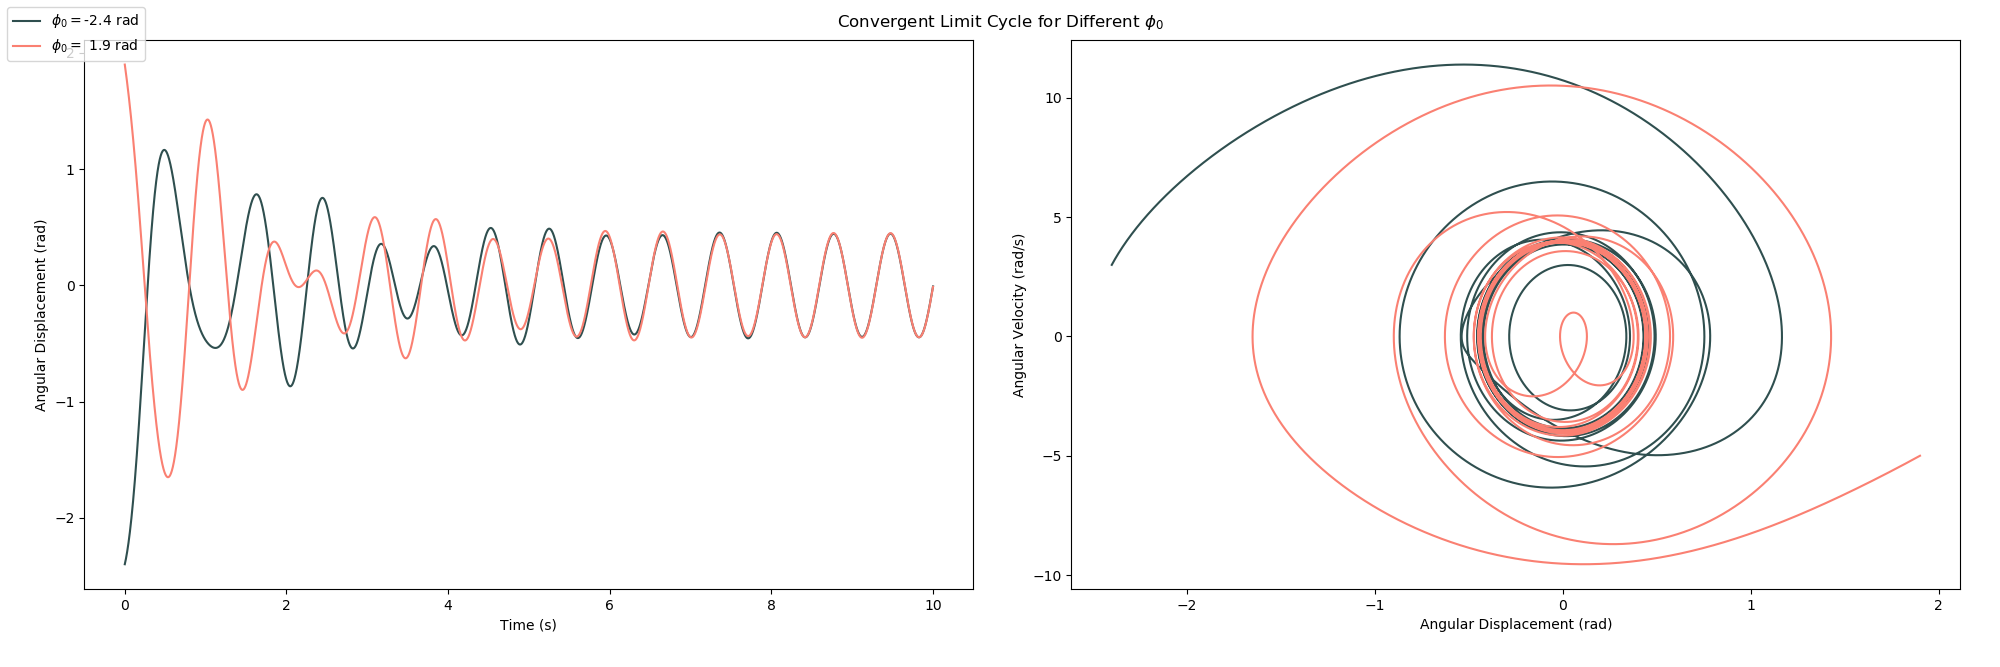
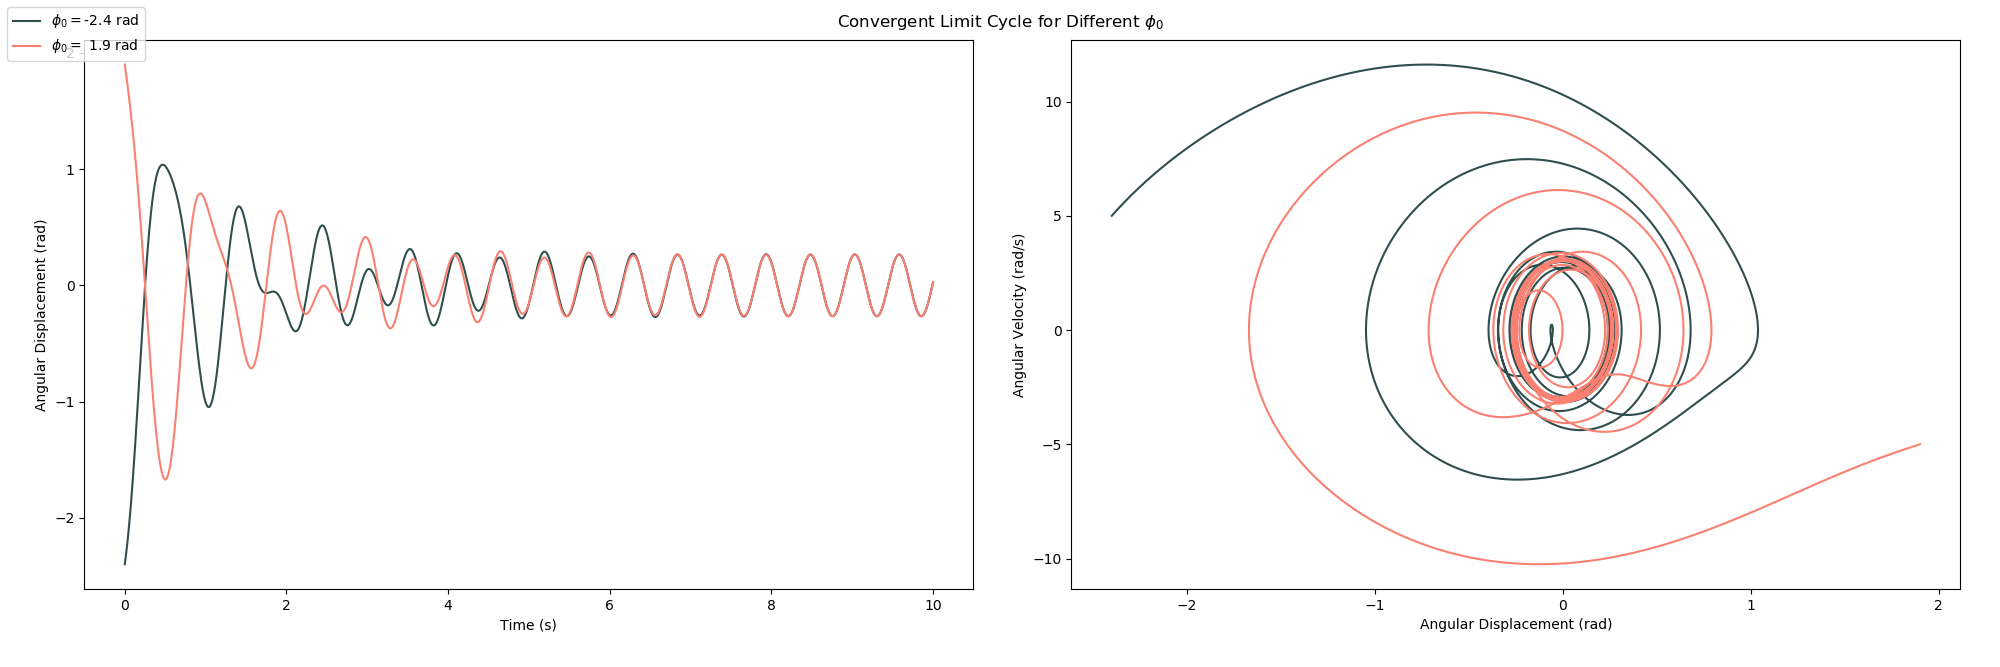
butterflies

diff --git a/Pendulum Code/section3-1.py b/Pendulum Code/section3-1.py
@@ -30,9 +30,9 @@ I = (1/3)*m_1*L*L + (L+r)**2*m_2
 
 parameters['M'] = m_1 + m_2
 parameters['omega_0'] = np.sqrt((parameters['M']*g*L_cm)/I)
-parameters['omega_d'] = parameters['omega_0']*1.3
-parameters['kappa'] = 2*parameters['omega_0']*0.1
-parameters['eta'] = 16
+parameters['omega_d'] = parameters['omega_0']*1.67
+parameters['kappa'] = 2*parameters['omega_0']*0.12
+parameters['eta'] = 23
 parameters['delta'] = 0.
 
 
@@ -41,15 +41,15 @@ T = (2*np.pi)/parameters['omega_0']
 times = np.linspace(0, 10, 25000)
 
 initialvals = np.linspace(np.pi/15, np.pi/1.1, 3)
-phi_in = 2.9
-vel_in = 2.5
+phi_in = 1.9
+vel_in = 1.2
 
 y_0 = np.array([phi_in, vel_in])
 yvals = RK4(pendulum, y_0, times, parameters)
 
 plotargs = pp.Plot_Arguments
-colors = ['orange', 'red', 'coral', 'crimson', 'magenta', 'crimson', 'blueviolet', 'darkslategrey', 'royalblue'
-          'darkgreen', 'crimson', 'maroon', 'greenyellow', 'coral', 'orangered', 'turquoise',
+colors = ['orange', 'red', 'turquoise', 'coral', 'crimson', 'magenta', 'blueviolet', 'darkslategrey', 'royalblue'
+          'darkgreen', 'maroon', 'greenyellow', 'coral', 'orangered',
           'salmon']
 
 initialvals = [np.pi/20, np.pi/4, np.pi/2, np.pi/1.01]
@@ -68,13 +68,18 @@ plotargs['labelsize'] = 12
 
 ### convergent limit cycle
 
-y_1 = [-2.4, 3]
+y_1 = [-2.4, 5]
 y_2 = [1.9, -5]
 
 y1 = RK4(pendulum, y_1, times, parameters)
 y2 = RK4(pendulum, y_2, times, parameters)
 
 fig, axes = plt.subplots(1, 2)
+
+#omega_d = 1.3*omega_0 
+#chi = 0.1
+#eta=16
+#delta=0
 
 axes[0].plot(times, y1[:,0], '-', color='darkslategrey', label=r'$\phi_0 = ${} rad'.format(str(y_1[0])))
 axes[0].plot(times, y2[:,0], '-', color='salmon', label=r'$\phi_0 = $ {} rad'.format(str(y_2[0])))
@@ -92,17 +97,19 @@ fig.legend(loc=2)
 
 fig.suptitle(r'Convergent Limit Cycle for Different $\phi_0$')
 
-plt.rcParams["figure.figsize"] = (20, 6.67)
+plt.rcParams["figure.figsize"] = (20, 6.67) 
+
 
 fig.savefig('convergent_limit_cycle.png', dpi=100)
 
 plt.show()
 
+### Mode Locking
 
 
+drivefreqs = parameters['omega_0']*np.array([0.5, 1, 2, 3])
 
-drivefreqs = parameters['omega_0']*np.array([0.5, 2, 3])
-
+times = np.linspace(0, 40, 25000)
 '''
 for i in range(len(drivefreqs)):
     parameters['omega_d'] = drivefreqs[i]
@@ -111,10 +118,26 @@ for i in range(len(drivefreqs)):
     parameters['delta'] = 0.
     freq = str(round(drivefreqs[i], 3))
     plotargs['graph label'] = r'$\omega_d = $' + freq
+    plotargs['color'] = colors[i+1]
     yvals = RK4(pendulum, y_0, times, parameters)
+    plt.rcParams["figure.figsize"] = (6, 4)
+    pp.displacementplot(times[20000:], yvals[20000:], plotargs)
     
-    pp.displacementplot(times, yvals, plotargs)
+plt.show()
+
+for i in range(len(drivefreqs)):
+    parameters['omega_d'] = drivefreqs[i]
+    parameters['kappa'] = 2*parameters['omega_0']*0.1
+    parameters['eta'] = 16.
+    parameters['delta'] = 0.
+    freq = str(round(drivefreqs[i], 3))
+    plotargs['graph label'] = r'$\omega_d = $' + freq
+    plotargs['color'] = colors[i+1]
+    yvals = RK4(pendulum, y_0, times, parameters)
+    plt.rcParams["figure.figsize"] = (6, 4)
+    pp.phasespace(times, yvals, plotargs)
 '''
+
     
 
     

diff --git a/Pendulum Code/Section3-2.py b/Pendulum Code/Section3-2.py
@@ -1,0 +1,90 @@
+#!/usr/bin/env python3
+# -*- coding: utf-8 -*-
+"""
+Created on Sat Nov 30 00:18:21 2019
+
+@author: lucasbaralt
+"""
+
+import numpy as np
+from pendulumeqs import pendulum, Parameters, pendulumTorque
+import matplotlib.pyplot as plt
+from rungekutta4 import RK4
+
+import pendulumplot as pp
+
+parameters = Parameters
+
+g = 9.8
+m_1 = 0.1
+m_2 = 0.2
+L = 0.2
+r = 0.025
+
+L_cm = ((L/2)*(m_1) + (L+r)*m_2)/(m_1+m_2)
+
+
+I = (1/3)*m_1*L*L + (L+r)**2*m_2
+
+
+
+
+parameters['M'] = m_1 + m_2
+parameters['omega_0'] = np.sqrt((parameters['M']*g*L_cm)/I)
+parameters['omega_d'] = parameters['omega_0']*1.3
+parameters['kappa'] = 2*parameters['omega_0']*0.1
+parameters['eta'] = 16
+parameters['delta'] = 0.
+
+
+T = (2*np.pi)/parameters['omega_0']
+
+times = np.linspace(0, 50, 100000)
+
+initialvals = np.linspace(np.pi/15, np.pi/1.1, 3)
+phi_in = 2.1
+vel_in = 1.2
+
+y_0 = np.array([phi_in, vel_in])
+yvals = RK4(pendulum, y_0, times, parameters)
+
+plotargs = pp.Plot_Arguments
+colors = ['orange', 'red', 'turquoise', 'coral', 'crimson', 'magenta', 'blueviolet', 'darkslategrey', 'royalblue'
+          'darkgreen', 'maroon', 'greenyellow', 'coral', 'orangered',
+          'salmon']
+
+
+plotargs['loc'] = 4
+plotargs['color'] = colors[0]
+plotargs['lineshape'] = '-'
+plotargs['title'] = ''
+plotargs['titlesize'] = 18
+plotargs['labelsize'] = 12
+
+fig = plt.figure()
+
+parameters['kappa'] = 2*parameters['omega_0']*0.1
+parameters['omega_d'] = parameters['omega_0']*0.56
+parameters['eta'] = 71.17
+y1 = RK4(pendulum, y_0, times, parameters)
+
+parameters['kappa'] = 2*parameters['omega_0']*0.1
+parameters['omega_d'] = parameters['omega_0']*0.56
+parameters['eta'] = 71.18
+y2 = RK4(pendulum, y_0, times, parameters)
+
+parameters['kappa'] = 2*parameters['omega_0']*0.1
+parameters['omega_d'] = parameters['omega_0']*0.56
+parameters['eta'] = 71.16
+y3 = RK4(pendulum, y_0, times, parameters)
+
+ax1 = fig.add_subplot(111)
+ax1.plot(times, y1[:,0], '-', color='crimson')
+ax1.plot(times, y2[:,0], '-', color='royalblue')
+ax1.plot(times, y3[:,0], '-', color='salmon')
+
+
+
+
+
+
